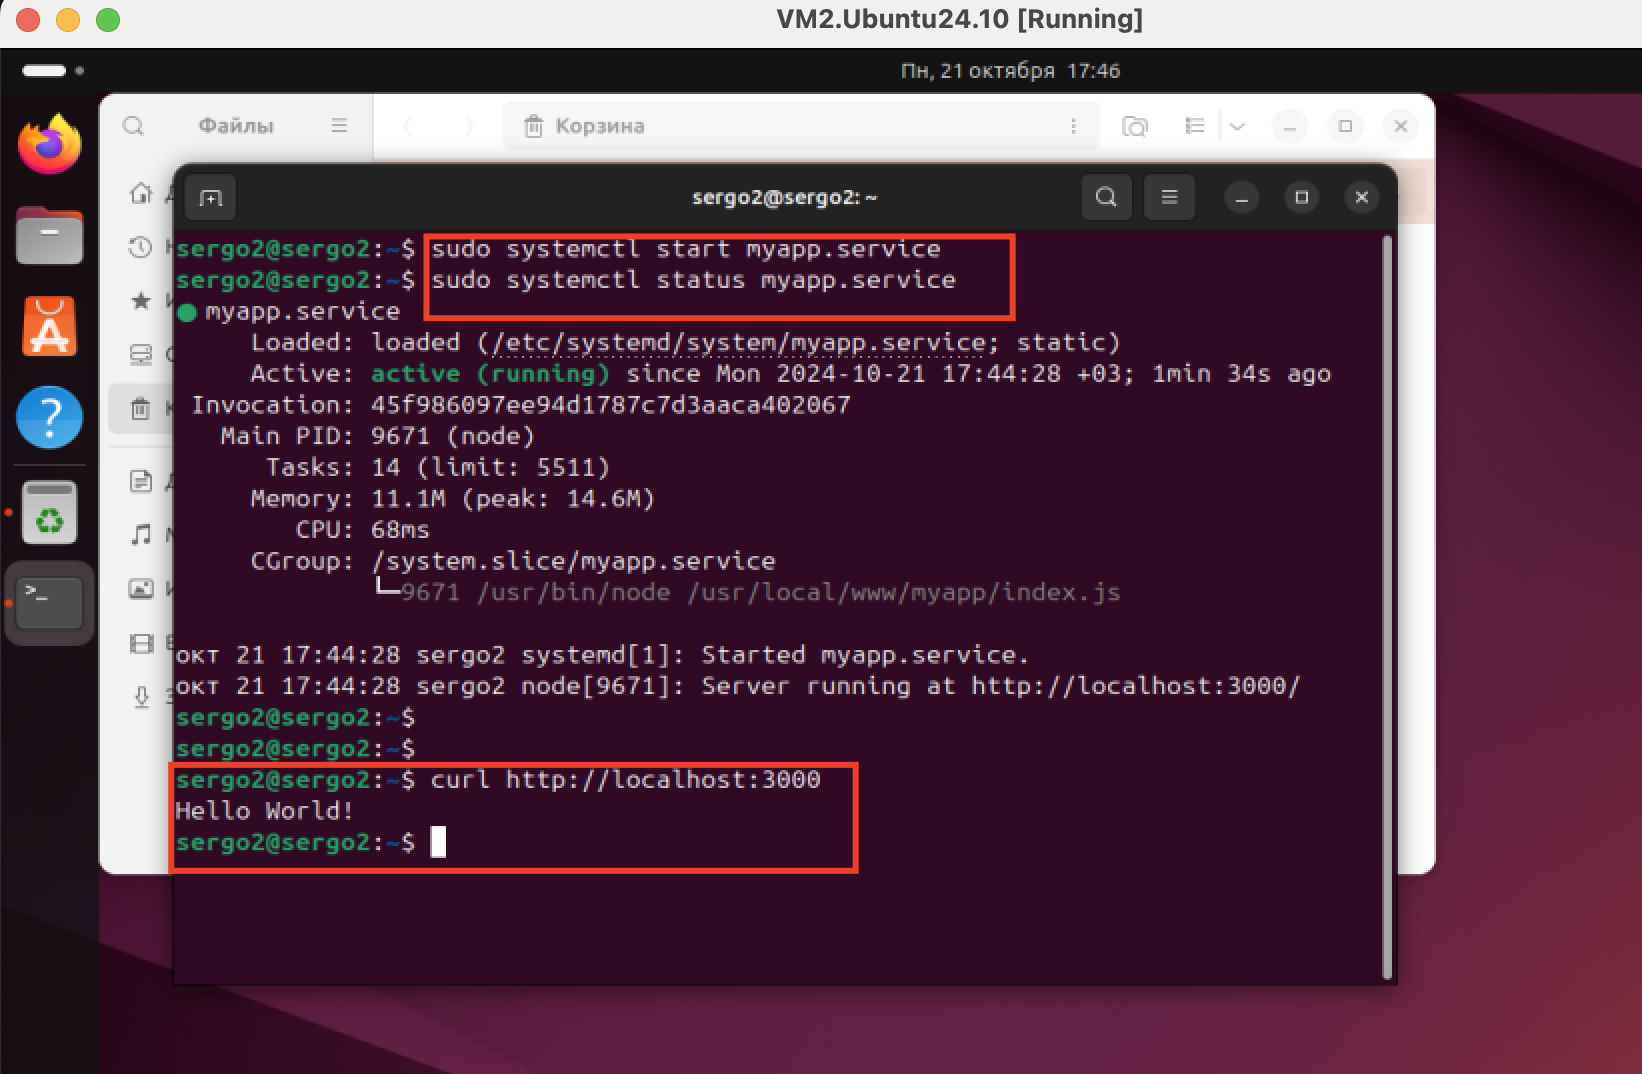
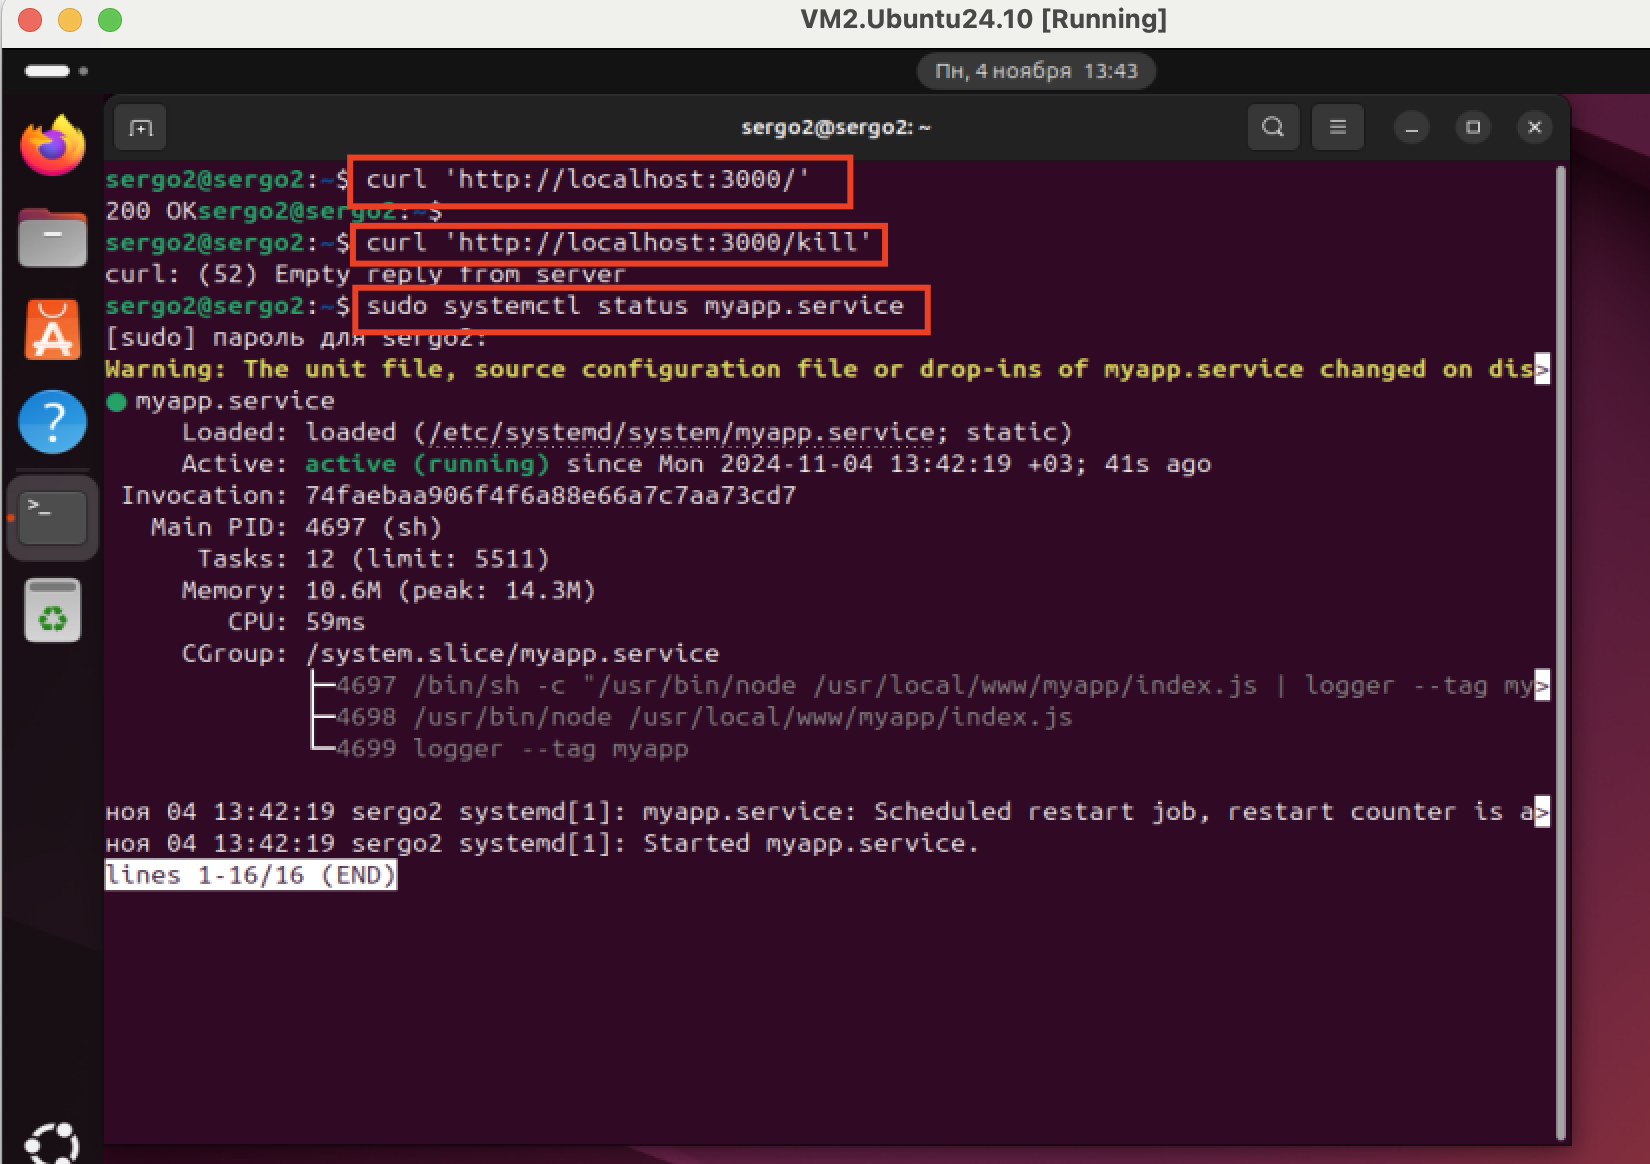
add settings for logging service

diff --git a/Homework_Lesson5_OS_4/HW5.md b/Homework_Lesson5_OS_4/HW5.md
@@ -46,33 +46,91 @@ sudo nano /etc/systemd/system/myapp.service
 # добовляем конфигурационные параметры
 [Service]
 ExecStart=/usr/bin/node /usr/local/www/myapp/index.js
+Restart=always
 # ExecStart команда для запуска приложения. 
 # /usr/local/bin/node — это полный путь к nodejs его можно узнать командой: which node
 # /usr/local/www/myapp/index.js — полный путь к запускаемому приложению.
+# Restart=always - автоматический перезапуск приложения в случае падения
 
 # создаем файл приложения
 sudo nano /usr/local/www/myapp/index.js
 
 # добовляем в файл код и сохраняем
 const http = require('http');
-const hostname = 'localhost';
-const port = 3000;
-const server = http.createServer((req, res) => {
-  res.statusCode = 200;
-  res.setHeader('Content-Type', 'text/plain');
-  res.end('Hello World!\n');
-});
-server.listen(port, hostname, () => {
-  console.log(`Server running at http://${hostname}:${port}/`);
-});
+// Get MYAPP_PORT from environment variable
+const MYAPP_PORT = process.env.MYAPP_PORT;
+http.createServer((req, res) => {
+if (req.url === '/kill') {
+// App die on uncaught error and print stack trace to stderr
+throw new Error('Someone kills me');
+}
+if (req.method === 'POST') {
+// App print this message to stderr, but is still alive
+console.error(`Error: Request ${req.method} ${req.url}`);
+res.writeHead(405, { 'Content-Type': 'text/plain' });
+res.end('405 Method Not Allowed');
+return;
+}
+// App print this message to stdout
+console.log(`Request ${req.method} ${req.url}`);
+res.writeHead(200, { 'Content-Type': 'text/plain' });
+res.end('200 OK');
+})
+.listen(MYAPP_PORT);
 
 # запускаем service unit
 sudo systemctl start myapp.service
 sudo systemctl status myapp.service
 sudo systemctl start myapp.service
 
-# проверяем развернулось ли приложение локально
+# проверяем развернулось ли приложение локально, и проверяем автоматический перезапуск после kill (см. скриншот ниже)
+
 curl http://localhost:3000
+curl http://localhost:3000/kill
+sudo systemctl status myapp.service
 ```
 
 ![alt text](template/image/image1.png)
+
+3. Настройка логирования приложения
+```bash
+# настроим конфигурацию сервиса /etc/systemd/system/myapp.service , чтобы stdout процесс отправлялся в логгер пайпом (утилита для записи в syslog), а stderr слал через systemd
+
+[Service]
+Environment=MYAPP_PORT=3000
+User=www-data
+Group=www-data
+# пайпим stdout в logger с тегом myapp
+ExecStart=/bin/sh -c '/usr/local/bin/node /usr/local/www/myapp/index.js | logger
+--tag myapp'
+# stder шлём в syslog средствами systemd
+StandardError=syslog
+SyslogIdentifier=myapp
+# устанавливаем уровень логирования: err
+SyslogLevel=err
+Restart=always
+
+# Настроим правило обработки логов в syslog с помощью syslog-демона rsyslog. Его настройки лежат в /etc/rsyslog.d/. Создаем файл /etc/rsyslog.d/100-myapp.conf b настроиваем в syslog правила для записи в разные файлы:
+
+$RepeatedMsgReduction off
+if $programname == 'myapp' and $syslogseverity < 5 then
+-/var/log/myapp/error.log
+if $programname == 'myapp' and $syslogseverity >= 5 then
+-/var/log/myapp/debug.log
+
+
+# Для записи логов в файлы, необходимо так же настроить logrotate. Пример файла конфигурации /etc/logrotate.d/myapp:
+
+/var/log/myapp/debug.log
+/var/log/myapp/error.log {
+rotate 7
+daily
+compress
+missingok
+notifempt
+postrotate
+invoke-rc.d rsyslog rotate > /dev/null
+endscript
+}
+
+```
